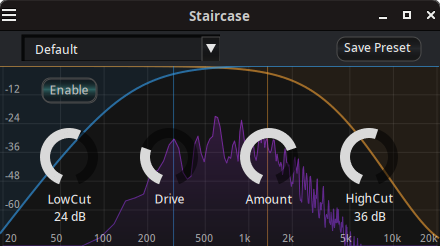
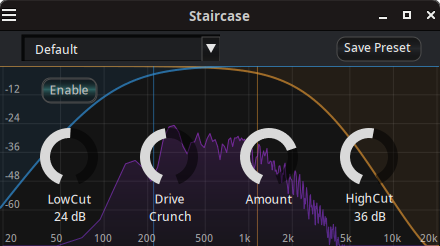
Implement dist mode selector

diff --git a/Staircase/Staircase.h b/Staircase/Staircase.h
@@ -15,6 +15,7 @@
 
 #pragma once
 #include <cmath>
+#include <algorithm>
 #include "StreamingResampler.h"
 
 class LM_EII12 {
@@ -26,6 +27,7 @@ public:
     float *onOff = nullptr;
     float *hpSlope = nullptr;
     float *lpSlope = nullptr;
+    float *distMode = nullptr;
 
     void setSampleRate(float sr) {
         sampleRate = sr;
@@ -41,6 +43,7 @@ public:
         const float amountVal = amount ? *amount : 0.75f;
         const int hpSlopesVal = hpSlope ? (int)*hpSlope : 1;
         const int lpSlopesVal = lpSlope ? (int)*lpSlope : 1;
+        const int distModeVal = distMode ? (int)*distMode : 0;
         
         const int hpStages = slopeToStages(hpSlopesVal);
         const int lpStages = slopeToStages(lpSlopesVal);
@@ -76,7 +79,7 @@ public:
         resUp.resample(output, buf, n_samples);
         for (uint32_t i = 0; i < r; i++) {
             float x = buf[i];
-            buf[i] = processSample(x, driveVal, amountVal);
+            buf[i] = processSample(x, driveVal, amountVal, distModeVal);
         }
         resDown.resample(buf, output, r);
         // run post highpass and lowpass filters
@@ -117,6 +120,12 @@ private:
 
     constexpr static float mu = 255.f;
     constexpr static float q = 1.0f / 2048.0f;
+
+    enum DistMode {
+        SOFT,
+        CRUNCH,
+        ROCK
+    };
 
     // compute lowpass cutoff frequency compensation for used stages
     inline float compute_corrected_k(float wc, float fs, int stages) {
@@ -200,8 +209,14 @@ private:
         return y;
     }
 
-    // compander, distortion and saturation
-    inline float processSample(float x, const float driveVal, const float amountVal) {
+    inline float softDist(float x, const float driveVal, const float amountVal) {
+        x *= driveVal;
+        x = tanh_fast(x * driveVal);
+        x = 1e-15f + x - 1e-15f;
+        return x * amountVal;
+    }
+
+    inline float crunchDist(float x, const float driveVal, const float amountVal) {
         x *= driveVal;
         float s = copysignf(1.f, x);
         x = s * log1p(mu * fabsf(x)) / log1p(mu);
@@ -209,5 +224,34 @@ private:
         x = tanh_fast(x * driveVal);
         x *= amountVal;
         return postSaturate(x, driveVal);
+    }
+
+    inline float metalDist(float x, const float driveVal, const float amountVal) {
+        x *= driveVal * 12.0f;
+        x = std::clamp(x, -1.5f, 1.5f);
+        x = x - (x * x * x) * 0.2f;
+        x = std::clamp(x, -0.9f, 0.9f);
+        float s = copysignf(1.0f, x);
+        float a = (s > 0.0f) ? 2.0f : 1.5f;
+        float t = -fabsf(x) * a;
+        t = fmaxf(t, -50.0f);
+        x = s * (1.0f - expf(t));
+        x = 1e-15f + x - 1e-15f;
+        return dc_block(x * amountVal);
+    }
+
+    // compander, distortion and saturation
+    inline float processSample(float x, const float driveVal, const float amountVal, const int distModeVal) {
+        if (fabsf(x) < 1e-20f) return 0.0f;
+        switch (distModeVal)
+        {
+            case (SOFT)   : return softDist(x, driveVal, amountVal);
+            break;
+            case (CRUNCH) : return crunchDist(x, driveVal, amountVal);
+            break;
+            case (ROCK)  : return metalDist(x, driveVal, amountVal);
+            break;
+        }
+        return x;
     }
 };

diff --git a/Staircase/Staircase.c b/Staircase/Staircase.c
@@ -5,7 +5,7 @@
 
 #define HIDE_NAME 
 
-#define CONTROLS 7
+#define CONTROLS 8
 
 #define GUI_ELEMENTS 0
 
@@ -37,7 +37,7 @@ void plugin_create_controller_widgets(X11_UI *ui, const char * plugin_uri) {
     ui->widget[0] = add_lv2_toggle_button (ui->widget[0], ui->win, 2, "Enable", ui, 40,  10, 60, 30);
 
     ui->widget[5] = add_lv2_combobox(ui->widget[5],ui->win, 3, "HP slope", ui, 40, 130, 60, 30);
-    combobox_add_entry(ui->widget[5],"6 dB");
+    combobox_add_entry(ui->widget[5]," 6 dB");
     combobox_add_entry(ui->widget[5],"12 dB");
     combobox_add_entry(ui->widget[5],"24 dB");
     combobox_add_entry(ui->widget[5],"36 dB");
@@ -45,19 +45,24 @@ void plugin_create_controller_widgets(X11_UI *ui, const char * plugin_uri) {
     ui->widget[4] = add_lv2_knob (ui->widget[4], ui->win, 4, "LowCut", ui, 40,  60, 60, 80);
     set_adjustment(ui->widget[4]->adj, 220.0, 220.0, 20.0, 2200.0, 0.01, CL_LOGARITHMIC);
 
-    ui->widget[1] = add_lv2_knob (ui->widget[1], ui->win, 5, "Drive", ui, 140,  60, 60, 80);
+    ui->widget[7] = add_lv2_combobox(ui->widget[7],ui->win, 5, "Dist Mode", ui, 140, 130, 60, 30);
+    combobox_add_entry(ui->widget[7],"Soft");
+    combobox_add_entry(ui->widget[7],"Crunch");
+    combobox_add_entry(ui->widget[7],"Rock");
+
+    ui->widget[1] = add_lv2_knob (ui->widget[1], ui->win, 6, "Drive", ui, 140,  60, 60, 80);
     set_adjustment(ui->widget[1]->adj, 1.2, 1.2, 0.1, 4.0, 0.01, CL_CONTINUOS);
 
-    ui->widget[2] = add_lv2_knob (ui->widget[2], ui->win, 6, "Amount", ui, 240,  60, 60, 80);
+    ui->widget[2] = add_lv2_knob (ui->widget[2], ui->win, 7, "Amount", ui, 240,  60, 60, 80);
     set_adjustment(ui->widget[2]->adj, 0.75, 0.75, 0.1, 1.0, 0.01, CL_CONTINUOS);
 
-    ui->widget[6] = add_lv2_combobox(ui->widget[6],ui->win, 7, "HP slope", ui, 340, 130, 60, 30);
-    combobox_add_entry(ui->widget[6],"6 dB");
+    ui->widget[6] = add_lv2_combobox(ui->widget[6],ui->win, 8, "HP slope", ui, 340, 130, 60, 30);
+    combobox_add_entry(ui->widget[6]," 6 dB");
     combobox_add_entry(ui->widget[6],"12 dB");
     combobox_add_entry(ui->widget[6],"24 dB");
     combobox_add_entry(ui->widget[6],"36 dB");
 
-    ui->widget[3] = add_lv2_knob (ui->widget[3], ui->win, 8, "HighCut", ui, 340,  60, 60, 80);
+    ui->widget[3] = add_lv2_knob (ui->widget[3], ui->win, 9, "HighCut", ui, 340,  60, 60, 80);
     set_adjustment(ui->widget[3]->adj, 2100.0, 2100.0, 40.0, 22000.0, 0.01, CL_LOGARITHMIC);
 
 }

diff --git a/Staircase/Staircase.cpp b/Staircase/Staircase.cpp
@@ -68,7 +68,7 @@ private:
     float* input0;
     float* output0;
     float* abuffer;
-    float bypass_;
+    uint32_t bypass_;
     int frames;
     // bypass ramping
     bool needs_ramp_down;
@@ -165,18 +165,21 @@ void Xstaircase::connect_(uint32_t port,void* data)
             stair.lowcut = static_cast<float*>(data);
             break;
         case 5:
-            stair.drive = static_cast<float*>(data);
+            stair.distMode = static_cast<float*>(data);
             break;
         case 6:
-            stair.amount = static_cast<float*>(data);
+            stair.drive = static_cast<float*>(data);
             break;
         case 7:
-            stair.lpSlope = static_cast<float*>(data);
+            stair.amount = static_cast<float*>(data);
             break;
         case 8:
-            stair.highcut = static_cast<float*>(data);
+            stair.lpSlope = static_cast<float*>(data);
             break;
         case 9:
+            stair.highcut = static_cast<float*>(data);
+            break;
+        case 10:
             notify = (LV2_Atom_Sequence*)data;
             break;
         default:

diff --git a/Staircase/lv2_plugin.cc b/Staircase/lv2_plugin.cc
@@ -325,7 +325,12 @@ static void draw_window(void *w_, void* user_data) {
     }
 }
 
-static void dummy_expose(void *w_, void* user_data) {
+static void null_callback(void *, void*) {
+    
+}
+
+static void dummy_callback(void *, void*, void*) {
+    
 }
 
 static void draw_my_combobox(void *w_, void* user_data) {
@@ -382,7 +387,9 @@ Widget_t* add_lv2_combobox(Widget_t *w, Widget_t *p, PortIndex index, const char
     w->parent_struct = ui;
     w->data = index;
     w->func.expose_callback = draw_my_combobox;
-    w->childlist->childs[0]->func.expose_callback = dummy_expose;
+    w->childlist->childs[0]->func.expose_callback = null_callback;
+    w->childlist->childs[0]->func.button_release_callback = dummy_callback;
+    destroy_widget(w->childlist->childs[0], w->app);
     w->func.value_changed_callback = value_changed;
     return w;
 }
@@ -678,10 +685,6 @@ static void cleanup(LV2UI_Handle handle) {
     free(ui->abuffer);
     free(ui->private_ptr);
     free(ui);
-}
-
-static void null_callback(void *w_, void* user_data) {
-    
 }
 
 /*---------------------------------------------------------------------

diff --git a/README.md b/README.md
@@ -23,6 +23,7 @@ It is designed for efficient DSP performance and a clean, responsive UI.
 
 * **HP slope** – Controls low cut filter slope (6, 12, 24, 36 dB/OCT)
 * **LowCut** – Removes low frequencies before distortion
+* **Dist Mode** – Controls distortion mode (Soft, Crunch, Rock)
 * **Drive** – Controls distortion intensity
 * **Amount** – Output level / wet amount
 * **LP slope** – Controls high cut filter slope (6, 12, 24, 36 dB/OCT)
